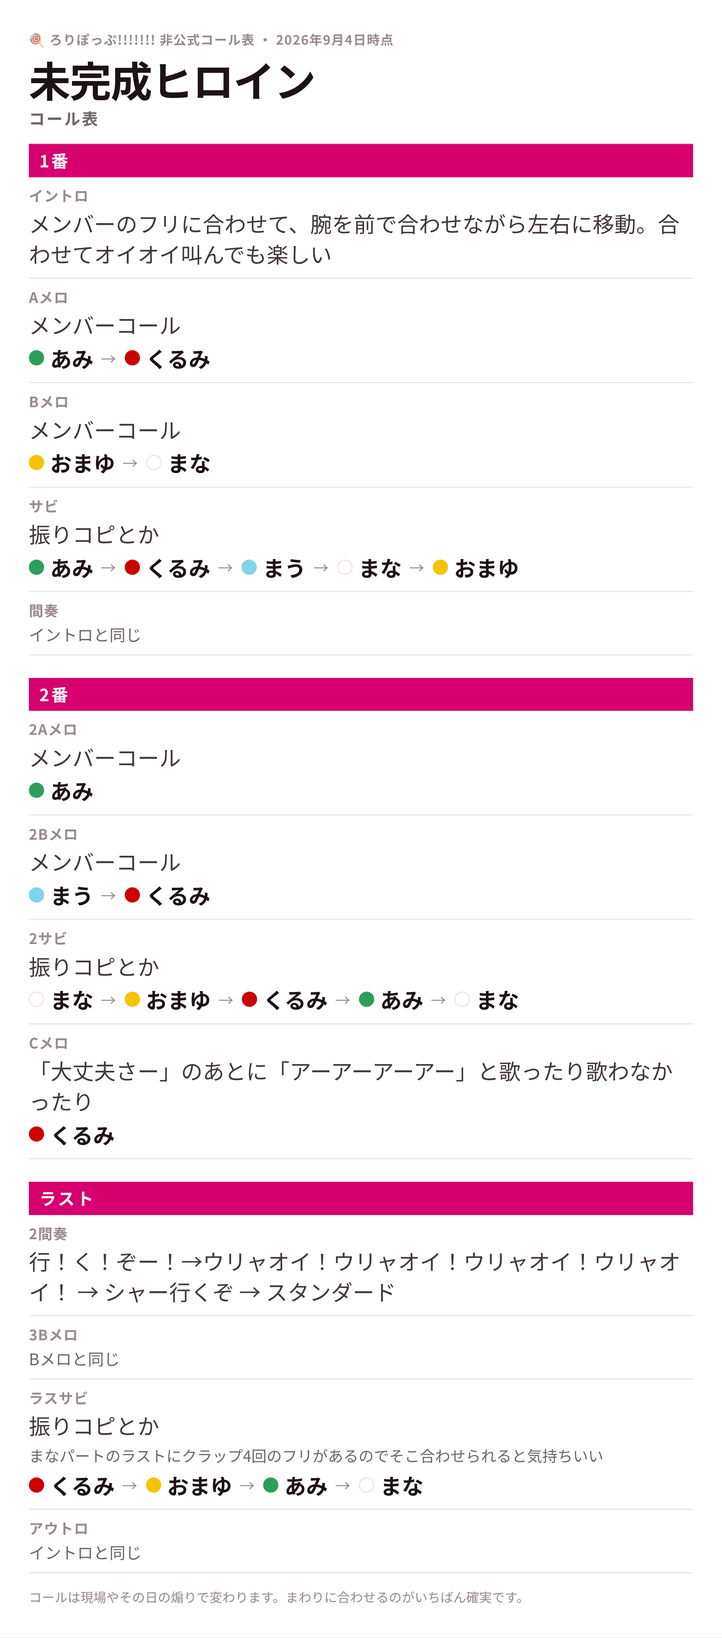
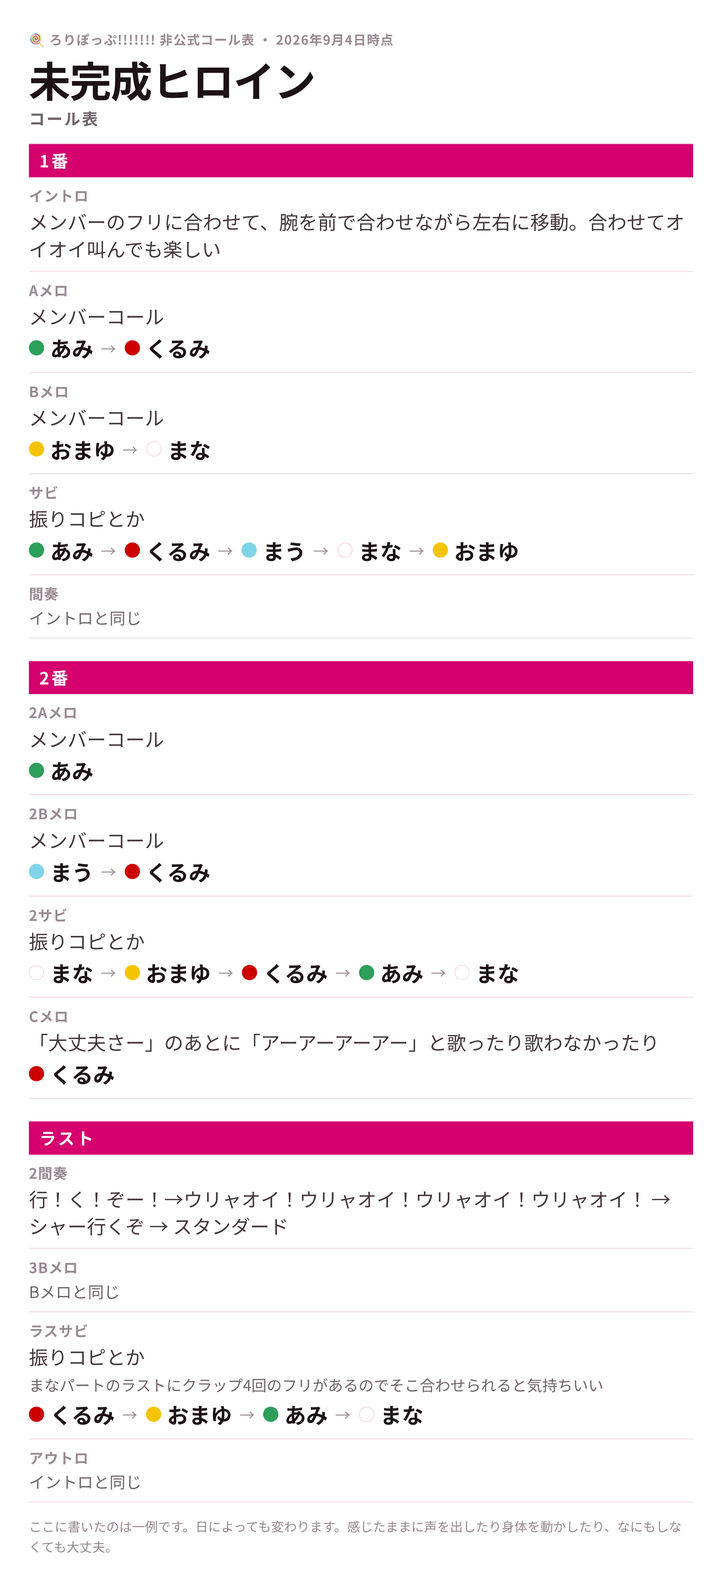
コール表の注記を直し、「やること」を一段小さくする
- 注記から「まわりに合わせるのがいちばん確実です」を外した。まわりに合わせる
  ことを勧める書き方はしない。書いてあるのはあくまで一例で、感じたままに
  声を出しても身体を動かしても、なにもしなくてもいい、という文面にした。
  カードの下と、call_sheet.html の「この表について」の両方を直した。
- 「やること」（メンバーコール・振りコピ）を54→48pxに。メンバーパートは
  54pxのままなので、担当カラー付きの名前が先に目に入る。

Claude-Session: https://claude.ai/code/session_01WNKk4GD6PDbxYTrbdx2WSv

diff --git a/resources/call_sheet_cards.html b/resources/call_sheet_cards.html
@@ -137,7 +137,8 @@ body {
 
 .row__body { min-width: 0; }
 
-/* 合図とメンバーの並び。ここが一番大きい＝一番先に目に入る */
+/* 2段目: やること（メンバーコール・振りコピ）。3段目より一段小さくして、
+   担当カラー付きのメンバーパートが先に目に入るようにする */
 .line {
   display: flex;
   flex-wrap: wrap;
@@ -145,10 +146,13 @@ body {
   gap: 6px 22px;
   margin: 0;
   color: var(--text);
-  font-size: 54px;
+  font-size: 48px;
   font-weight: 500;
   line-height: 1.4;
 }
+
+/* 3段目: メンバーパート。ここが一番大きい＝一番先に目に入る */
+.line--members { font-size: 54px; }
 
 /* 説明文は一段小さく。読むのは目を留めたときでいい */
 .line--note {
@@ -242,15 +246,15 @@ body {
         </div>
         <div class="row">
           <p class="row__part">Aメロ</p>
-          <div class="row__body"><p class="line">メンバーコール</p><p class="line"><span class="chips"><span class="chip"><span class="dot" style="background-color: var(--mc-ami);" aria-hidden="true"></span>あみ</span><span class="chip"><span class="chip__arrow" aria-hidden="true">→</span><span class="dot" style="background-color: var(--mc-kurumi);" aria-hidden="true"></span>くるみ</span></span></p></div>
+          <div class="row__body"><p class="line">メンバーコール</p><p class="line line--members"><span class="chips"><span class="chip"><span class="dot" style="background-color: var(--mc-ami);" aria-hidden="true"></span>あみ</span><span class="chip"><span class="chip__arrow" aria-hidden="true">→</span><span class="dot" style="background-color: var(--mc-kurumi);" aria-hidden="true"></span>くるみ</span></span></p></div>
         </div>
         <div class="row">
           <p class="row__part">Bメロ</p>
-          <div class="row__body"><p class="line">メンバーコール</p><p class="line"><span class="chips"><span class="chip"><span class="dot" style="background-color: var(--mc-mayu);" aria-hidden="true"></span>おまゆ</span><span class="chip"><span class="chip__arrow" aria-hidden="true">→</span><span class="dot dot--outline" style="background-color: var(--mc-mana);" aria-hidden="true"></span>まな</span></span></p></div>
+          <div class="row__body"><p class="line">メンバーコール</p><p class="line line--members"><span class="chips"><span class="chip"><span class="dot" style="background-color: var(--mc-mayu);" aria-hidden="true"></span>おまゆ</span><span class="chip"><span class="chip__arrow" aria-hidden="true">→</span><span class="dot dot--outline" style="background-color: var(--mc-mana);" aria-hidden="true"></span>まな</span></span></p></div>
         </div>
         <div class="row">
           <p class="row__part">サビ</p>
-          <div class="row__body"><p class="line">振りコピとか</p><p class="line"><span class="chips"><span class="chip"><span class="dot" style="background-color: var(--mc-ami);" aria-hidden="true"></span>あみ</span><span class="chip"><span class="chip__arrow" aria-hidden="true">→</span><span class="dot" style="background-color: var(--mc-kurumi);" aria-hidden="true"></span>くるみ</span><span class="chip"><span class="chip__arrow" aria-hidden="true">→</span><span class="dot" style="background-color: var(--mc-mau);" aria-hidden="true"></span>まう</span><span class="chip"><span class="chip__arrow" aria-hidden="true">→</span><span class="dot dot--outline" style="background-color: var(--mc-mana);" aria-hidden="true"></span>まな</span><span class="chip"><span class="chip__arrow" aria-hidden="true">→</span><span class="dot" style="background-color: var(--mc-mayu);" aria-hidden="true"></span>おまゆ</span></span></p></div>
+          <div class="row__body"><p class="line">振りコピとか</p><p class="line line--members"><span class="chips"><span class="chip"><span class="dot" style="background-color: var(--mc-ami);" aria-hidden="true"></span>あみ</span><span class="chip"><span class="chip__arrow" aria-hidden="true">→</span><span class="dot" style="background-color: var(--mc-kurumi);" aria-hidden="true"></span>くるみ</span><span class="chip"><span class="chip__arrow" aria-hidden="true">→</span><span class="dot" style="background-color: var(--mc-mau);" aria-hidden="true"></span>まう</span><span class="chip"><span class="chip__arrow" aria-hidden="true">→</span><span class="dot dot--outline" style="background-color: var(--mc-mana);" aria-hidden="true"></span>まな</span><span class="chip"><span class="chip__arrow" aria-hidden="true">→</span><span class="dot" style="background-color: var(--mc-mayu);" aria-hidden="true"></span>おまゆ</span></span></p></div>
         </div>
         <div class="row">
           <p class="row__part">間奏</p>
@@ -259,19 +263,19 @@ body {
         <p class="block">2番</p>
         <div class="row">
           <p class="row__part">2Aメロ</p>
-          <div class="row__body"><p class="line">メンバーコール</p><p class="line"><span class="chips"><span class="chip"><span class="dot" style="background-color: var(--mc-ami);" aria-hidden="true"></span>あみ</span></span></p></div>
+          <div class="row__body"><p class="line">メンバーコール</p><p class="line line--members"><span class="chips"><span class="chip"><span class="dot" style="background-color: var(--mc-ami);" aria-hidden="true"></span>あみ</span></span></p></div>
         </div>
         <div class="row">
           <p class="row__part">2Bメロ</p>
-          <div class="row__body"><p class="line">メンバーコール</p><p class="line"><span class="chips"><span class="chip"><span class="dot" style="background-color: var(--mc-mau);" aria-hidden="true"></span>まう</span><span class="chip"><span class="chip__arrow" aria-hidden="true">→</span><span class="dot" style="background-color: var(--mc-kurumi);" aria-hidden="true"></span>くるみ</span></span></p></div>
+          <div class="row__body"><p class="line">メンバーコール</p><p class="line line--members"><span class="chips"><span class="chip"><span class="dot" style="background-color: var(--mc-mau);" aria-hidden="true"></span>まう</span><span class="chip"><span class="chip__arrow" aria-hidden="true">→</span><span class="dot" style="background-color: var(--mc-kurumi);" aria-hidden="true"></span>くるみ</span></span></p></div>
         </div>
         <div class="row">
           <p class="row__part">2サビ</p>
-          <div class="row__body"><p class="line">振りコピとか</p><p class="line"><span class="chips"><span class="chip"><span class="dot dot--outline" style="background-color: var(--mc-mana);" aria-hidden="true"></span>まな</span><span class="chip"><span class="chip__arrow" aria-hidden="true">→</span><span class="dot" style="background-color: var(--mc-mayu);" aria-hidden="true"></span>おまゆ</span><span class="chip"><span class="chip__arrow" aria-hidden="true">→</span><span class="dot" style="background-color: var(--mc-kurumi);" aria-hidden="true"></span>くるみ</span><span class="chip"><span class="chip__arrow" aria-hidden="true">→</span><span class="dot" style="background-color: var(--mc-ami);" aria-hidden="true"></span>あみ</span><span class="chip"><span class="chip__arrow" aria-hidden="true">→</span><span class="dot dot--outline" style="background-color: var(--mc-mana);" aria-hidden="true"></span>まな</span></span></p></div>
+          <div class="row__body"><p class="line">振りコピとか</p><p class="line line--members"><span class="chips"><span class="chip"><span class="dot dot--outline" style="background-color: var(--mc-mana);" aria-hidden="true"></span>まな</span><span class="chip"><span class="chip__arrow" aria-hidden="true">→</span><span class="dot" style="background-color: var(--mc-mayu);" aria-hidden="true"></span>おまゆ</span><span class="chip"><span class="chip__arrow" aria-hidden="true">→</span><span class="dot" style="background-color: var(--mc-kurumi);" aria-hidden="true"></span>くるみ</span><span class="chip"><span class="chip__arrow" aria-hidden="true">→</span><span class="dot" style="background-color: var(--mc-ami);" aria-hidden="true"></span>あみ</span><span class="chip"><span class="chip__arrow" aria-hidden="true">→</span><span class="dot dot--outline" style="background-color: var(--mc-mana);" aria-hidden="true"></span>まな</span></span></p></div>
         </div>
         <div class="row">
           <p class="row__part">Cメロ</p>
-          <div class="row__body"><p class="line">「大丈夫さー」のあとに「アーアーアーアー」と歌ったり歌わなかったり</p><p class="line"><span class="chips"><span class="chip"><span class="dot" style="background-color: var(--mc-kurumi);" aria-hidden="true"></span>くるみ</span></span></p></div>
+          <div class="row__body"><p class="line">「大丈夫さー」のあとに「アーアーアーアー」と歌ったり歌わなかったり</p><p class="line line--members"><span class="chips"><span class="chip"><span class="dot" style="background-color: var(--mc-kurumi);" aria-hidden="true"></span>くるみ</span></span></p></div>
         </div>
         <p class="block">ラスト</p>
         <div class="row">
@@ -284,14 +288,14 @@ body {
         </div>
         <div class="row">
           <p class="row__part">ラスサビ</p>
-          <div class="row__body"><p class="line">振りコピとか</p><p class="line line--note">まなパートのラストにクラップ4回のフリがあるのでそこ合わせられると気持ちいい</p><p class="line"><span class="chips"><span class="chip"><span class="dot" style="background-color: var(--mc-kurumi);" aria-hidden="true"></span>くるみ</span><span class="chip"><span class="chip__arrow" aria-hidden="true">→</span><span class="dot" style="background-color: var(--mc-mayu);" aria-hidden="true"></span>おまゆ</span><span class="chip"><span class="chip__arrow" aria-hidden="true">→</span><span class="dot" style="background-color: var(--mc-ami);" aria-hidden="true"></span>あみ</span><span class="chip"><span class="chip__arrow" aria-hidden="true">→</span><span class="dot dot--outline" style="background-color: var(--mc-mana);" aria-hidden="true"></span>まな</span></span></p></div>
+          <div class="row__body"><p class="line">振りコピとか</p><p class="line line--note">まなパートのラストにクラップ4回のフリがあるのでそこ合わせられると気持ちいい</p><p class="line line--members"><span class="chips"><span class="chip"><span class="dot" style="background-color: var(--mc-kurumi);" aria-hidden="true"></span>くるみ</span><span class="chip"><span class="chip__arrow" aria-hidden="true">→</span><span class="dot" style="background-color: var(--mc-mayu);" aria-hidden="true"></span>おまゆ</span><span class="chip"><span class="chip__arrow" aria-hidden="true">→</span><span class="dot" style="background-color: var(--mc-ami);" aria-hidden="true"></span>あみ</span><span class="chip"><span class="chip__arrow" aria-hidden="true">→</span><span class="dot dot--outline" style="background-color: var(--mc-mana);" aria-hidden="true"></span>まな</span></span></p></div>
         </div>
         <div class="row">
           <p class="row__part">アウトロ</p>
           <div class="row__body"><p class="line line--same">イントロと同じ</p></div>
         </div>
       </div>
-      <p class="card__note">コールは現場やその日の煽りで変わります。まわりに合わせるのがいちばん確実です。</p>
+      <p class="card__note">ここに書いたのは一例です。日によっても変わります。感じたままに声を出したり身体を動かしたり、なにもしなくても大丈夫。</p>
     </section>
 
     <section class="card sheet-band--beige" id="card-beige">
@@ -306,15 +310,15 @@ body {
         </div>
         <div class="row">
           <p class="row__part">Aメロ</p>
-          <div class="row__body"><p class="line">メンバーコール</p><p class="line"><span class="chips"><span class="chip"><span class="dot" style="background-color: var(--mc-ami);" aria-hidden="true"></span>あみ</span><span class="chip"><span class="chip__arrow" aria-hidden="true">→</span><span class="dot" style="background-color: var(--mc-kurumi);" aria-hidden="true"></span>くるみ</span></span></p></div>
+          <div class="row__body"><p class="line">メンバーコール</p><p class="line line--members"><span class="chips"><span class="chip"><span class="dot" style="background-color: var(--mc-ami);" aria-hidden="true"></span>あみ</span><span class="chip"><span class="chip__arrow" aria-hidden="true">→</span><span class="dot" style="background-color: var(--mc-kurumi);" aria-hidden="true"></span>くるみ</span></span></p></div>
         </div>
         <div class="row">
           <p class="row__part">Bメロ</p>
-          <div class="row__body"><p class="line">メンバーコール</p><p class="line"><span class="chips"><span class="chip"><span class="dot" style="background-color: var(--mc-mayu);" aria-hidden="true"></span>おまゆ</span><span class="chip"><span class="chip__arrow" aria-hidden="true">→</span><span class="dot dot--outline" style="background-color: var(--mc-mana);" aria-hidden="true"></span>まな</span></span></p></div>
+          <div class="row__body"><p class="line">メンバーコール</p><p class="line line--members"><span class="chips"><span class="chip"><span class="dot" style="background-color: var(--mc-mayu);" aria-hidden="true"></span>おまゆ</span><span class="chip"><span class="chip__arrow" aria-hidden="true">→</span><span class="dot dot--outline" style="background-color: var(--mc-mana);" aria-hidden="true"></span>まな</span></span></p></div>
         </div>
         <div class="row">
           <p class="row__part">サビ</p>
-          <div class="row__body"><p class="line">振りコピとか</p><p class="line"><span class="chips"><span class="chip"><span class="dot" style="background-color: var(--mc-ami);" aria-hidden="true"></span>あみ</span><span class="chip"><span class="chip__arrow" aria-hidden="true">→</span><span class="dot" style="background-color: var(--mc-kurumi);" aria-hidden="true"></span>くるみ</span><span class="chip"><span class="chip__arrow" aria-hidden="true">→</span><span class="dot" style="background-color: var(--mc-mau);" aria-hidden="true"></span>まう</span><span class="chip"><span class="chip__arrow" aria-hidden="true">→</span><span class="dot dot--outline" style="background-color: var(--mc-mana);" aria-hidden="true"></span>まな</span><span class="chip"><span class="chip__arrow" aria-hidden="true">→</span><span class="dot" style="background-color: var(--mc-mayu);" aria-hidden="true"></span>おまゆ</span></span></p></div>
+          <div class="row__body"><p class="line">振りコピとか</p><p class="line line--members"><span class="chips"><span class="chip"><span class="dot" style="background-color: var(--mc-ami);" aria-hidden="true"></span>あみ</span><span class="chip"><span class="chip__arrow" aria-hidden="true">→</span><span class="dot" style="background-color: var(--mc-kurumi);" aria-hidden="true"></span>くるみ</span><span class="chip"><span class="chip__arrow" aria-hidden="true">→</span><span class="dot" style="background-color: var(--mc-mau);" aria-hidden="true"></span>まう</span><span class="chip"><span class="chip__arrow" aria-hidden="true">→</span><span class="dot dot--outline" style="background-color: var(--mc-mana);" aria-hidden="true"></span>まな</span><span class="chip"><span class="chip__arrow" aria-hidden="true">→</span><span class="dot" style="background-color: var(--mc-mayu);" aria-hidden="true"></span>おまゆ</span></span></p></div>
         </div>
         <div class="row">
           <p class="row__part">間奏</p>
@@ -323,19 +327,19 @@ body {
         <p class="block">2番</p>
         <div class="row">
           <p class="row__part">2Aメロ</p>
-          <div class="row__body"><p class="line">メンバーコール</p><p class="line"><span class="chips"><span class="chip"><span class="dot" style="background-color: var(--mc-ami);" aria-hidden="true"></span>あみ</span></span></p></div>
+          <div class="row__body"><p class="line">メンバーコール</p><p class="line line--members"><span class="chips"><span class="chip"><span class="dot" style="background-color: var(--mc-ami);" aria-hidden="true"></span>あみ</span></span></p></div>
         </div>
         <div class="row">
           <p class="row__part">2Bメロ</p>
-          <div class="row__body"><p class="line">メンバーコール</p><p class="line"><span class="chips"><span class="chip"><span class="dot" style="background-color: var(--mc-mau);" aria-hidden="true"></span>まう</span><span class="chip"><span class="chip__arrow" aria-hidden="true">→</span><span class="dot" style="background-color: var(--mc-kurumi);" aria-hidden="true"></span>くるみ</span></span></p></div>
+          <div class="row__body"><p class="line">メンバーコール</p><p class="line line--members"><span class="chips"><span class="chip"><span class="dot" style="background-color: var(--mc-mau);" aria-hidden="true"></span>まう</span><span class="chip"><span class="chip__arrow" aria-hidden="true">→</span><span class="dot" style="background-color: var(--mc-kurumi);" aria-hidden="true"></span>くるみ</span></span></p></div>
         </div>
         <div class="row">
           <p class="row__part">2サビ</p>
-          <div class="row__body"><p class="line">振りコピとか</p><p class="line"><span class="chips"><span class="chip"><span class="dot dot--outline" style="background-color: var(--mc-mana);" aria-hidden="true"></span>まな</span><span class="chip"><span class="chip__arrow" aria-hidden="true">→</span><span class="dot" style="background-color: var(--mc-mayu);" aria-hidden="true"></span>おまゆ</span><span class="chip"><span class="chip__arrow" aria-hidden="true">→</span><span class="dot" style="background-color: var(--mc-kurumi);" aria-hidden="true"></span>くるみ</span><span class="chip"><span class="chip__arrow" aria-hidden="true">→</span><span class="dot" style="background-color: var(--mc-ami);" aria-hidden="true"></span>あみ</span><span class="chip"><span class="chip__arrow" aria-hidden="true">→</span><span class="dot dot--outline" style="background-color: var(--mc-mana);" aria-hidden="true"></span>まな</span></span></p></div>
+          <div class="row__body"><p class="line">振りコピとか</p><p class="line line--members"><span class="chips"><span class="chip"><span class="dot dot--outline" style="background-color: var(--mc-mana);" aria-hidden="true"></span>まな</span><span class="chip"><span class="chip__arrow" aria-hidden="true">→</span><span class="dot" style="background-color: var(--mc-mayu);" aria-hidden="true"></span>おまゆ</span><span class="chip"><span class="chip__arrow" aria-hidden="true">→</span><span class="dot" style="background-color: var(--mc-kurumi);" aria-hidden="true"></span>くるみ</span><span class="chip"><span class="chip__arrow" aria-hidden="true">→</span><span class="dot" style="background-color: var(--mc-ami);" aria-hidden="true"></span>あみ</span><span class="chip"><span class="chip__arrow" aria-hidden="true">→</span><span class="dot dot--outline" style="background-color: var(--mc-mana);" aria-hidden="true"></span>まな</span></span></p></div>
         </div>
         <div class="row">
           <p class="row__part">Cメロ</p>
-          <div class="row__body"><p class="line">「大丈夫さー」のあとに「アーアーアーアー」と歌ったり歌わなかったり</p><p class="line"><span class="chips"><span class="chip"><span class="dot" style="background-color: var(--mc-kurumi);" aria-hidden="true"></span>くるみ</span></span></p></div>
+          <div class="row__body"><p class="line">「大丈夫さー」のあとに「アーアーアーアー」と歌ったり歌わなかったり</p><p class="line line--members"><span class="chips"><span class="chip"><span class="dot" style="background-color: var(--mc-kurumi);" aria-hidden="true"></span>くるみ</span></span></p></div>
         </div>
         <p class="block">ラスト</p>
         <div class="row">
@@ -348,14 +352,14 @@ body {
         </div>
         <div class="row">
           <p class="row__part">ラスサビ</p>
-          <div class="row__body"><p class="line">振りコピとか</p><p class="line line--note">まなパートのラストにクラップ4回のフリがあるのでそこ合わせられると気持ちいい</p><p class="line"><span class="chips"><span class="chip"><span class="dot" style="background-color: var(--mc-kurumi);" aria-hidden="true"></span>くるみ</span><span class="chip"><span class="chip__arrow" aria-hidden="true">→</span><span class="dot" style="background-color: var(--mc-mayu);" aria-hidden="true"></span>おまゆ</span><span class="chip"><span class="chip__arrow" aria-hidden="true">→</span><span class="dot" style="background-color: var(--mc-ami);" aria-hidden="true"></span>あみ</span><span class="chip"><span class="chip__arrow" aria-hidden="true">→</span><span class="dot dot--outline" style="background-color: var(--mc-mana);" aria-hidden="true"></span>まな</span></span></p></div>
+          <div class="row__body"><p class="line">振りコピとか</p><p class="line line--note">まなパートのラストにクラップ4回のフリがあるのでそこ合わせられると気持ちいい</p><p class="line line--members"><span class="chips"><span class="chip"><span class="dot" style="background-color: var(--mc-kurumi);" aria-hidden="true"></span>くるみ</span><span class="chip"><span class="chip__arrow" aria-hidden="true">→</span><span class="dot" style="background-color: var(--mc-mayu);" aria-hidden="true"></span>おまゆ</span><span class="chip"><span class="chip__arrow" aria-hidden="true">→</span><span class="dot" style="background-color: var(--mc-ami);" aria-hidden="true"></span>あみ</span><span class="chip"><span class="chip__arrow" aria-hidden="true">→</span><span class="dot dot--outline" style="background-color: var(--mc-mana);" aria-hidden="true"></span>まな</span></span></p></div>
         </div>
         <div class="row">
           <p class="row__part">アウトロ</p>
           <div class="row__body"><p class="line line--same">イントロと同じ</p></div>
         </div>
       </div>
-      <p class="card__note">コールは現場やその日の煽りで変わります。まわりに合わせるのがいちばん確実です。</p>
+      <p class="card__note">ここに書いたのは一例です。日によっても変わります。感じたままに声を出したり身体を動かしたり、なにもしなくても大丈夫。</p>
     </section>
 
     <section class="card sheet-band--blush" id="card-blush">
@@ -370,15 +374,15 @@ body {
         </div>
         <div class="row">
           <p class="row__part">Aメロ</p>
-          <div class="row__body"><p class="line">メンバーコール</p><p class="line"><span class="chips"><span class="chip"><span class="dot" style="background-color: var(--mc-ami);" aria-hidden="true"></span>あみ</span><span class="chip"><span class="chip__arrow" aria-hidden="true">→</span><span class="dot" style="background-color: var(--mc-kurumi);" aria-hidden="true"></span>くるみ</span></span></p></div>
+          <div class="row__body"><p class="line">メンバーコール</p><p class="line line--members"><span class="chips"><span class="chip"><span class="dot" style="background-color: var(--mc-ami);" aria-hidden="true"></span>あみ</span><span class="chip"><span class="chip__arrow" aria-hidden="true">→</span><span class="dot" style="background-color: var(--mc-kurumi);" aria-hidden="true"></span>くるみ</span></span></p></div>
         </div>
         <div class="row">
           <p class="row__part">Bメロ</p>
-          <div class="row__body"><p class="line">メンバーコール</p><p class="line"><span class="chips"><span class="chip"><span class="dot" style="background-color: var(--mc-mayu);" aria-hidden="true"></span>おまゆ</span><span class="chip"><span class="chip__arrow" aria-hidden="true">→</span><span class="dot dot--outline" style="background-color: var(--mc-mana);" aria-hidden="true"></span>まな</span></span></p></div>
+          <div class="row__body"><p class="line">メンバーコール</p><p class="line line--members"><span class="chips"><span class="chip"><span class="dot" style="background-color: var(--mc-mayu);" aria-hidden="true"></span>おまゆ</span><span class="chip"><span class="chip__arrow" aria-hidden="true">→</span><span class="dot dot--outline" style="background-color: var(--mc-mana);" aria-hidden="true"></span>まな</span></span></p></div>
         </div>
         <div class="row">
           <p class="row__part">サビ</p>
-          <div class="row__body"><p class="line">振りコピとか</p><p class="line"><span class="chips"><span class="chip"><span class="dot" style="background-color: var(--mc-ami);" aria-hidden="true"></span>あみ</span><span class="chip"><span class="chip__arrow" aria-hidden="true">→</span><span class="dot" style="background-color: var(--mc-kurumi);" aria-hidden="true"></span>くるみ</span><span class="chip"><span class="chip__arrow" aria-hidden="true">→</span><span class="dot" style="background-color: var(--mc-mau);" aria-hidden="true"></span>まう</span><span class="chip"><span class="chip__arrow" aria-hidden="true">→</span><span class="dot dot--outline" style="background-color: var(--mc-mana);" aria-hidden="true"></span>まな</span><span class="chip"><span class="chip__arrow" aria-hidden="true">→</span><span class="dot" style="background-color: var(--mc-mayu);" aria-hidden="true"></span>おまゆ</span></span></p></div>
+          <div class="row__body"><p class="line">振りコピとか</p><p class="line line--members"><span class="chips"><span class="chip"><span class="dot" style="background-color: var(--mc-ami);" aria-hidden="true"></span>あみ</span><span class="chip"><span class="chip__arrow" aria-hidden="true">→</span><span class="dot" style="background-color: var(--mc-kurumi);" aria-hidden="true"></span>くるみ</span><span class="chip"><span class="chip__arrow" aria-hidden="true">→</span><span class="dot" style="background-color: var(--mc-mau);" aria-hidden="true"></span>まう</span><span class="chip"><span class="chip__arrow" aria-hidden="true">→</span><span class="dot dot--outline" style="background-color: var(--mc-mana);" aria-hidden="true"></span>まな</span><span class="chip"><span class="chip__arrow" aria-hidden="true">→</span><span class="dot" style="background-color: var(--mc-mayu);" aria-hidden="true"></span>おまゆ</span></span></p></div>
         </div>
         <div class="row">
           <p class="row__part">間奏</p>
@@ -387,19 +391,19 @@ body {
         <p class="block">2番</p>
         <div class="row">
           <p class="row__part">2Aメロ</p>
-          <div class="row__body"><p class="line">メンバーコール</p><p class="line"><span class="chips"><span class="chip"><span class="dot" style="background-color: var(--mc-ami);" aria-hidden="true"></span>あみ</span></span></p></div>
+          <div class="row__body"><p class="line">メンバーコール</p><p class="line line--members"><span class="chips"><span class="chip"><span class="dot" style="background-color: var(--mc-ami);" aria-hidden="true"></span>あみ</span></span></p></div>
         </div>
         <div class="row">
           <p class="row__part">2Bメロ</p>
-          <div class="row__body"><p class="line">メンバーコール</p><p class="line"><span class="chips"><span class="chip"><span class="dot" style="background-color: var(--mc-mau);" aria-hidden="true"></span>まう</span><span class="chip"><span class="chip__arrow" aria-hidden="true">→</span><span class="dot" style="background-color: var(--mc-kurumi);" aria-hidden="true"></span>くるみ</span></span></p></div>
+          <div class="row__body"><p class="line">メンバーコール</p><p class="line line--members"><span class="chips"><span class="chip"><span class="dot" style="background-color: var(--mc-mau);" aria-hidden="true"></span>まう</span><span class="chip"><span class="chip__arrow" aria-hidden="true">→</span><span class="dot" style="background-color: var(--mc-kurumi);" aria-hidden="true"></span>くるみ</span></span></p></div>
         </div>
         <div class="row">
           <p class="row__part">2サビ</p>
-          <div class="row__body"><p class="line">振りコピとか</p><p class="line"><span class="chips"><span class="chip"><span class="dot dot--outline" style="background-color: var(--mc-mana);" aria-hidden="true"></span>まな</span><span class="chip"><span class="chip__arrow" aria-hidden="true">→</span><span class="dot" style="background-color: var(--mc-mayu);" aria-hidden="true"></span>おまゆ</span><span class="chip"><span class="chip__arrow" aria-hidden="true">→</span><span class="dot" style="background-color: var(--mc-kurumi);" aria-hidden="true"></span>くるみ</span><span class="chip"><span class="chip__arrow" aria-hidden="true">→</span><span class="dot" style="background-color: var(--mc-ami);" aria-hidden="true"></span>あみ</span><span class="chip"><span class="chip__arrow" aria-hidden="true">→</span><span class="dot dot--outline" style="background-color: var(--mc-mana);" aria-hidden="true"></span>まな</span></span></p></div>
+          <div class="row__body"><p class="line">振りコピとか</p><p class="line line--members"><span class="chips"><span class="chip"><span class="dot dot--outline" style="background-color: var(--mc-mana);" aria-hidden="true"></span>まな</span><span class="chip"><span class="chip__arrow" aria-hidden="true">→</span><span class="dot" style="background-color: var(--mc-mayu);" aria-hidden="true"></span>おまゆ</span><span class="chip"><span class="chip__arrow" aria-hidden="true">→</span><span class="dot" style="background-color: var(--mc-kurumi);" aria-hidden="true"></span>くるみ</span><span class="chip"><span class="chip__arrow" aria-hidden="true">→</span><span class="dot" style="background-color: var(--mc-ami);" aria-hidden="true"></span>あみ</span><span class="chip"><span class="chip__arrow" aria-hidden="true">→</span><span class="dot dot--outline" style="background-color: var(--mc-mana);" aria-hidden="true"></span>まな</span></span></p></div>
         </div>
         <div class="row">
           <p class="row__part">Cメロ</p>
-          <div class="row__body"><p class="line">「大丈夫さー」のあとに「アーアーアーアー」と歌ったり歌わなかったり</p><p class="line"><span class="chips"><span class="chip"><span class="dot" style="background-color: var(--mc-kurumi);" aria-hidden="true"></span>くるみ</span></span></p></div>
+          <div class="row__body"><p class="line">「大丈夫さー」のあとに「アーアーアーアー」と歌ったり歌わなかったり</p><p class="line line--members"><span class="chips"><span class="chip"><span class="dot" style="background-color: var(--mc-kurumi);" aria-hidden="true"></span>くるみ</span></span></p></div>
         </div>
         <p class="block">ラスト</p>
         <div class="row">
@@ -412,14 +416,14 @@ body {
         </div>
         <div class="row">
           <p class="row__part">ラスサビ</p>
-          <div class="row__body"><p class="line">振りコピとか</p><p class="line line--note">まなパートのラストにクラップ4回のフリがあるのでそこ合わせられると気持ちいい</p><p class="line"><span class="chips"><span class="chip"><span class="dot" style="background-color: var(--mc-kurumi);" aria-hidden="true"></span>くるみ</span><span class="chip"><span class="chip__arrow" aria-hidden="true">→</span><span class="dot" style="background-color: var(--mc-mayu);" aria-hidden="true"></span>おまゆ</span><span class="chip"><span class="chip__arrow" aria-hidden="true">→</span><span class="dot" style="background-color: var(--mc-ami);" aria-hidden="true"></span>あみ</span><span class="chip"><span class="chip__arrow" aria-hidden="true">→</span><span class="dot dot--outline" style="background-color: var(--mc-mana);" aria-hidden="true"></span>まな</span></span></p></div>
+          <div class="row__body"><p class="line">振りコピとか</p><p class="line line--note">まなパートのラストにクラップ4回のフリがあるのでそこ合わせられると気持ちいい</p><p class="line line--members"><span class="chips"><span class="chip"><span class="dot" style="background-color: var(--mc-kurumi);" aria-hidden="true"></span>くるみ</span><span class="chip"><span class="chip__arrow" aria-hidden="true">→</span><span class="dot" style="background-color: var(--mc-mayu);" aria-hidden="true"></span>おまゆ</span><span class="chip"><span class="chip__arrow" aria-hidden="true">→</span><span class="dot" style="background-color: var(--mc-ami);" aria-hidden="true"></span>あみ</span><span class="chip"><span class="chip__arrow" aria-hidden="true">→</span><span class="dot dot--outline" style="background-color: var(--mc-mana);" aria-hidden="true"></span>まな</span></span></p></div>
         </div>
         <div class="row">
           <p class="row__part">アウトロ</p>
           <div class="row__body"><p class="line line--same">イントロと同じ</p></div>
         </div>
       </div>
-      <p class="card__note">コールは現場やその日の煽りで変わります。まわりに合わせるのがいちばん確実です。</p>
+      <p class="card__note">ここに書いたのは一例です。日によっても変わります。感じたままに声を出したり身体を動かしたり、なにもしなくても大丈夫。</p>
     </section>
 
     <section class="card sheet-band--navy" id="card-navy">
@@ -434,15 +438,15 @@ body {
         </div>
         <div class="row">
           <p class="row__part">Aメロ</p>
-          <div class="row__body"><p class="line">メンバーコール</p><p class="line"><span class="chips"><span class="chip"><span class="dot" style="background-color: var(--mc-ami);" aria-hidden="true"></span>あみ</span><span class="chip"><span class="chip__arrow" aria-hidden="true">→</span><span class="dot" style="background-color: var(--mc-kurumi);" aria-hidden="true"></span>くるみ</span></span></p></div>
+          <div class="row__body"><p class="line">メンバーコール</p><p class="line line--members"><span class="chips"><span class="chip"><span class="dot" style="background-color: var(--mc-ami);" aria-hidden="true"></span>あみ</span><span class="chip"><span class="chip__arrow" aria-hidden="true">→</span><span class="dot" style="background-color: var(--mc-kurumi);" aria-hidden="true"></span>くるみ</span></span></p></div>
         </div>
         <div class="row">
           <p class="row__part">Bメロ</p>
-          <div class="row__body"><p class="line">メンバーコール</p><p class="line"><span class="chips"><span class="chip"><span class="dot" style="background-color: var(--mc-mayu);" aria-hidden="true"></span>おまゆ</span><span class="chip"><span class="chip__arrow" aria-hidden="true">→</span><span class="dot dot--outline" style="background-color: var(--mc-mana);" aria-hidden="true"></span>まな</span></span></p></div>
+          <div class="row__body"><p class="line">メンバーコール</p><p class="line line--members"><span class="chips"><span class="chip"><span class="dot" style="background-color: var(--mc-mayu);" aria-hidden="true"></span>おまゆ</span><span class="chip"><span class="chip__arrow" aria-hidden="true">→</span><span class="dot dot--outline" style="background-color: var(--mc-mana);" aria-hidden="true"></span>まな</span></span></p></div>
         </div>
         <div class="row">
           <p class="row__part">サビ</p>
-          <div class="row__body"><p class="line">振りコピとか</p><p class="line"><span class="chips"><span class="chip"><span class="dot" style="background-color: var(--mc-ami);" aria-hidden="true"></span>あみ</span><span class="chip"><span class="chip__arrow" aria-hidden="true">→</span><span class="dot" style="background-color: var(--mc-kurumi);" aria-hidden="true"></span>くるみ</span><span class="chip"><span class="chip__arrow" aria-hidden="true">→</span><span class="dot" style="background-color: var(--mc-mau);" aria-hidden="true"></span>まう</span><span class="chip"><span class="chip__arrow" aria-hidden="true">→</span><span class="dot dot--outline" style="background-color: var(--mc-mana);" aria-hidden="true"></span>まな</span><span class="chip"><span class="chip__arrow" aria-hidden="true">→</span><span class="dot" style="background-color: var(--mc-mayu);" aria-hidden="true"></span>おまゆ</span></span></p></div>
+          <div class="row__body"><p class="line">振りコピとか</p><p class="line line--members"><span class="chips"><span class="chip"><span class="dot" style="background-color: var(--mc-ami);" aria-hidden="true"></span>あみ</span><span class="chip"><span class="chip__arrow" aria-hidden="true">→</span><span class="dot" style="background-color: var(--mc-kurumi);" aria-hidden="true"></span>くるみ</span><span class="chip"><span class="chip__arrow" aria-hidden="true">→</span><span class="dot" style="background-color: var(--mc-mau);" aria-hidden="true"></span>まう</span><span class="chip"><span class="chip__arrow" aria-hidden="true">→</span><span class="dot dot--outline" style="background-color: var(--mc-mana);" aria-hidden="true"></span>まな</span><span class="chip"><span class="chip__arrow" aria-hidden="true">→</span><span class="dot" style="background-color: var(--mc-mayu);" aria-hidden="true"></span>おまゆ</span></span></p></div>
         </div>
         <div class="row">
           <p class="row__part">間奏</p>
@@ -451,19 +455,19 @@ body {
         <p class="block">2番</p>
         <div class="row">
           <p class="row__part">2Aメロ</p>
-          <div class="row__body"><p class="line">メンバーコール</p><p class="line"><span class="chips"><span class="chip"><span class="dot" style="background-color: var(--mc-ami);" aria-hidden="true"></span>あみ</span></span></p></div>
+          <div class="row__body"><p class="line">メンバーコール</p><p class="line line--members"><span class="chips"><span class="chip"><span class="dot" style="background-color: var(--mc-ami);" aria-hidden="true"></span>あみ</span></span></p></div>
         </div>
         <div class="row">
           <p class="row__part">2Bメロ</p>
-          <div class="row__body"><p class="line">メンバーコール</p><p class="line"><span class="chips"><span class="chip"><span class="dot" style="background-color: var(--mc-mau);" aria-hidden="true"></span>まう</span><span class="chip"><span class="chip__arrow" aria-hidden="true">→</span><span class="dot" style="background-color: var(--mc-kurumi);" aria-hidden="true"></span>くるみ</span></span></p></div>
+          <div class="row__body"><p class="line">メンバーコール</p><p class="line line--members"><span class="chips"><span class="chip"><span class="dot" style="background-color: var(--mc-mau);" aria-hidden="true"></span>まう</span><span class="chip"><span class="chip__arrow" aria-hidden="true">→</span><span class="dot" style="background-color: var(--mc-kurumi);" aria-hidden="true"></span>くるみ</span></span></p></div>
         </div>
         <div class="row">
           <p class="row__part">2サビ</p>
-          <div class="row__body"><p class="line">振りコピとか</p><p class="line"><span class="chips"><span class="chip"><span class="dot dot--outline" style="background-color: var(--mc-mana);" aria-hidden="true"></span>まな</span><span class="chip"><span class="chip__arrow" aria-hidden="true">→</span><span class="dot" style="background-color: var(--mc-mayu);" aria-hidden="true"></span>おまゆ</span><span class="chip"><span class="chip__arrow" aria-hidden="true">→</span><span class="dot" style="background-color: var(--mc-kurumi);" aria-hidden="true"></span>くるみ</span><span class="chip"><span class="chip__arrow" aria-hidden="true">→</span><span class="dot" style="background-color: var(--mc-ami);" aria-hidden="true"></span>あみ</span><span class="chip"><span class="chip__arrow" aria-hidden="true">→</span><span class="dot dot--outline" style="background-color: var(--mc-mana);" aria-hidden="true"></span>まな</span></span></p></div>
+          <div class="row__body"><p class="line">振りコピとか</p><p class="line line--members"><span class="chips"><span class="chip"><span class="dot dot--outline" style="background-color: var(--mc-mana);" aria-hidden="true"></span>まな</span><span class="chip"><span class="chip__arrow" aria-hidden="true">→</span><span class="dot" style="background-color: var(--mc-mayu);" aria-hidden="true"></span>おまゆ</span><span class="chip"><span class="chip__arrow" aria-hidden="true">→</span><span class="dot" style="background-color: var(--mc-kurumi);" aria-hidden="true"></span>くるみ</span><span class="chip"><span class="chip__arrow" aria-hidden="true">→</span><span class="dot" style="background-color: var(--mc-ami);" aria-hidden="true"></span>あみ</span><span class="chip"><span class="chip__arrow" aria-hidden="true">→</span><span class="dot dot--outline" style="background-color: var(--mc-mana);" aria-hidden="true"></span>まな</span></span></p></div>
         </div>
         <div class="row">
           <p class="row__part">Cメロ</p>
-          <div class="row__body"><p class="line">「大丈夫さー」のあとに「アーアーアーアー」と歌ったり歌わなかったり</p><p class="line"><span class="chips"><span class="chip"><span class="dot" style="background-color: var(--mc-kurumi);" aria-hidden="true"></span>くるみ</span></span></p></div>
+          <div class="row__body"><p class="line">「大丈夫さー」のあとに「アーアーアーアー」と歌ったり歌わなかったり</p><p class="line line--members"><span class="chips"><span class="chip"><span class="dot" style="background-color: var(--mc-kurumi);" aria-hidden="true"></span>くるみ</span></span></p></div>
         </div>
         <p class="block">ラスト</p>
         <div class="row">
@@ -476,14 +480,14 @@ body {
         </div>
         <div class="row">
           <p class="row__part">ラスサビ</p>
-          <div class="row__body"><p class="line">振りコピとか</p><p class="line line--note">まなパートのラストにクラップ4回のフリがあるのでそこ合わせられると気持ちいい</p><p class="line"><span class="chips"><span class="chip"><span class="dot" style="background-color: var(--mc-kurumi);" aria-hidden="true"></span>くるみ</span><span class="chip"><span class="chip__arrow" aria-hidden="true">→</span><span class="dot" style="background-color: var(--mc-mayu);" aria-hidden="true"></span>おまゆ</span><span class="chip"><span class="chip__arrow" aria-hidden="true">→</span><span class="dot" style="background-color: var(--mc-ami);" aria-hidden="true"></span>あみ</span><span class="chip"><span class="chip__arrow" aria-hidden="true">→</span><span class="dot dot--outline" style="background-color: var(--mc-mana);" aria-hidden="true"></span>まな</span></span></p></div>
+          <div class="row__body"><p class="line">振りコピとか</p><p class="line line--note">まなパートのラストにクラップ4回のフリがあるのでそこ合わせられると気持ちいい</p><p class="line line--members"><span class="chips"><span class="chip"><span class="dot" style="background-color: var(--mc-kurumi);" aria-hidden="true"></span>くるみ</span><span class="chip"><span class="chip__arrow" aria-hidden="true">→</span><span class="dot" style="background-color: var(--mc-mayu);" aria-hidden="true"></span>おまゆ</span><span class="chip"><span class="chip__arrow" aria-hidden="true">→</span><span class="dot" style="background-color: var(--mc-ami);" aria-hidden="true"></span>あみ</span><span class="chip"><span class="chip__arrow" aria-hidden="true">→</span><span class="dot dot--outline" style="background-color: var(--mc-mana);" aria-hidden="true"></span>まな</span></span></p></div>
         </div>
         <div class="row">
           <p class="row__part">アウトロ</p>
           <div class="row__body"><p class="line line--same">イントロと同じ</p></div>
         </div>
       </div>
-      <p class="card__note">コールは現場やその日の煽りで変わります。まわりに合わせるのがいちばん確実です。</p>
+      <p class="card__note">ここに書いたのは一例です。日によっても変わります。感じたままに声を出したり身体を動かしたり、なにもしなくても大丈夫。</p>
     </section>
 </body>
 

diff --git a/resources/call_sheet.html b/resources/call_sheet.html
@@ -768,7 +768,7 @@ a { color: var(--primary); }
                 <h2 class="notes__title">この表について</h2>
                 <ul class="notes__list">
                     <li>ファン有志がライブで聞き取ってまとめた非公式のコール表です。運営公認のものではありません。</li>
-                    <li>コールは現場やその日の煽りで変わります。まわりに合わせるのがいちばん確実です。</li>
+                    <li>ここに書いたのは一例です。日によっても変わります。感じたままに声を出したり身体を動かしたり、なにもしなくても大丈夫。</li>
                     <li>メンバーパートは記録した時点のもの。編成や振り入れで変わることがあります。</li>
                 </ul>
                 <ul class="notes__links">

diff --git a/resources/build_call_sheet.py b/resources/build_call_sheet.py
@@ -642,7 +642,8 @@ body {
 
 .row__body { min-width: 0; }
 
-/* 合図とメンバーの並び。ここが一番大きい＝一番先に目に入る */
+/* 2段目: やること（メンバーコール・振りコピ）。3段目より一段小さくして、
+   担当カラー付きのメンバーパートが先に目に入るようにする */
 .line {
   display: flex;
   flex-wrap: wrap;
@@ -650,10 +651,13 @@ body {
   gap: 6px 22px;
   margin: 0;
   color: var(--text);
-  font-size: 54px;
+  font-size: 48px;
   font-weight: 500;
   line-height: 1.4;
 }
+
+/* 3段目: メンバーパート。ここが一番大きい＝一番先に目に入る */
+.line--members { font-size: 54px; }
 
 /* 説明文は一段小さく。読むのは目を留めたときでいい */
 .line--note {
@@ -734,8 +738,12 @@ def render_lines(lines: list[str]) -> str:
     """
     out = []
     for index, line in enumerate(lines):
-        note = index and not ROUTE_RE.match(line) and len(line) > SHORT
-        cls = "line line--note" if note else "line"
+        if ROUTE_RE.match(line):
+            cls = "line line--members"  # メンバーパート。ここが一番大きい
+        elif index and len(line) > SHORT:
+            cls = "line line--note"  # 2行目以降の補足
+        else:
+            cls = "line"  # やること
         out.append(f'<p class="{cls}">{render_text(line)}</p>')
     return "".join(out)
 
@@ -772,7 +780,7 @@ def render_card(song: Song, colors_key: str, mark: str) -> str:
         '      <div class="rows">\n'
         + "\n".join(body)
         + "\n      </div>\n"
-        '      <p class="card__note">コールは現場やその日の煽りで変わります。まわりに合わせるのがいちばん確実です。</p>\n'
+        '      <p class="card__note">ここに書いたのは一例です。日によっても変わります。感じたままに声を出したり身体を動かしたり、なにもしなくても大丈夫。</p>\n'
         "    </section>"
     )
 
@@ -858,7 +866,7 @@ def build(song: Song, colors: list[str]) -> str:
                 <h2 class="notes__title">この表について</h2>
                 <ul class="notes__list">
                     <li>ファン有志がライブで聞き取ってまとめた非公式のコール表です。運営公認のものではありません。</li>
-                    <li>コールは現場やその日の煽りで変わります。まわりに合わせるのがいちばん確実です。</li>
+                    <li>ここに書いたのは一例です。日によっても変わります。感じたままに声を出したり身体を動かしたり、なにもしなくても大丈夫。</li>
                     <li>メンバーパートは記録した時点のもの。編成や振り入れで変わることがあります。</li>
                 </ul>
                 <ul class="notes__links">
